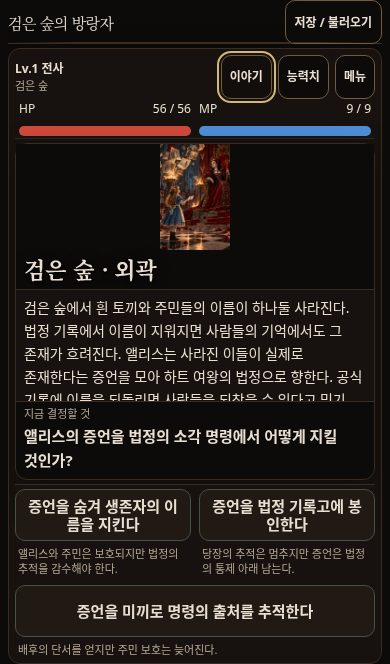
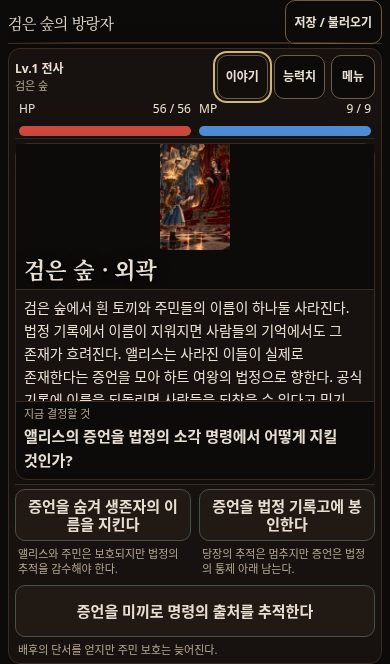
fix(ui): adapt long choices and exhaustive story QA to bounded reading

Changed region(s): [[0.5231, 0.0602, 0.9231, 0.1506]]

diff --git a/black-forest.html b/black-forest.html
@@ -1437,6 +1437,7 @@
  #black-forest-game[data-viewport=scene] .scene-hero-body{flex-basis:64px;min-height:32px}
  #black-forest-game[data-viewport=scene] .scene-hero-question{font-size:11px}
 }
+@media(max-width:700px){#black-forest-game[data-viewport=scene] .actions.choices-single:has([data-cmd=chapterChoice]){grid-template-columns:1fr}}
 
 </style>
 <div id="black-forest-game">
@@ -3457,7 +3458,8 @@ function sceneHero(s,kicker,title){
  return `<section class="scene-hero scene-${s.scene}${compact?' scene-compact':''}${visual.includes('assets/story_')?' scene-story-art':''}"><div class="scene-visual">${visual}<div class="scene-hero-shade" aria-hidden="true"></div><header class="scene-hero-head"><p class="eyebrow">${esc(kicker)}</p><h2>${esc(title)}</h2></header></div><div class="scene-hero-body" aria-live="polite">${heroNarrative(s)}${decision?`<div class="scene-hero-question"><span>지금 결정할 것</span><strong>${esc(decision.question)}</strong><small>무엇을 지키고 무엇을 감수할지 선택한다.</small></div>`:''}</div></section>`;
 }
 // Layout-only sizing for embedded documents and mobile address-bar changes.
-function sizeViewport(){if(panel)return;const top=root.getBoundingClientRect().top,height=window.visualViewport?.height||window.innerHeight;root.style.setProperty('--bf-scene-height',Math.max(240,height-Math.max(0,top))+'px');}
+function fitChoices(){const actions=$('play').querySelector('.actions:has([data-cmd=chapterChoice])');if(!actions)return;actions.classList.remove('choices-single');if([...actions.querySelectorAll('.action-label')].some(e=>e.getBoundingClientRect().height>36))actions.classList.add('choices-single');}
+function sizeViewport(){if(panel)return;const top=root.getBoundingClientRect().top,height=window.visualViewport?.height||window.innerHeight;root.style.setProperty('--bf-scene-height',Math.max(240,height-Math.max(0,top))+'px');fitChoices();}
 window.addEventListener('resize',sizeViewport);window.visualViewport?.addEventListener('resize',sizeViewport);
 root.addEventListener('error',ev=>{if(ev.target.tagName==='IMG'){ev.target.hidden=true;const caption=ev.target.parentElement.querySelector('.art-fallback');if(caption)caption.hidden=false;}},true);
 window.addEventListener('pageshow',ev=>{if(!ev.persisted)return;try{const code=localStorage.getItem(KEY);if(code)game=Game.load(code);render();}catch(e){warning='남긴 모험 기록을 다시 확인해 주세요.';}});
@@ -3544,6 +3546,7 @@ function prepareViewport(s,active){
  if(body){body.tabIndex=0;body.setAttribute('role','region');body.setAttribute('aria-label','장면 이야기 · 스크롤하여 전체 읽기');
  const question=body.querySelector('.scene-hero-question');if(question)body.after(question);
  }
+ fitChoices();
 }
 const careerConditionLabel=label=>label.replace(/^이야기 (.+)$/,(_,flag)=>{const chapter=flag.match(/^chapter_(\d)_seen$/);if(chapter&&AREAS[Number(chapter[1])])return AREAS[Number(chapter[1])].name+' 방문';const npc=NPCS[flag.replace(/_seen$/,'')];return npc?npc.name+' 만남':'이야기 경험';});
 const careerConditions=rows=>`<ul class="career-conditions" aria-label="전직 조건">${rows.map(r=>`<li class="career-condition ${r.now>=r.need?'is-met':'is-unmet'}"><span class="condition-mark" aria-hidden="true">${r.now>=r.need?'✓':'○'}</span><span class="condition-label">${esc(careerConditionLabel(r.label))}</span><span class="condition-value">${r.now>=r.need?'완료':'미완료'} · ${r.now}/${r.need}</span></li>`).join('')}</ul>`;

diff --git a/index.html b/index.html
@@ -1437,6 +1437,7 @@
  #black-forest-game[data-viewport=scene] .scene-hero-body{flex-basis:64px;min-height:32px}
  #black-forest-game[data-viewport=scene] .scene-hero-question{font-size:11px}
 }
+@media(max-width:700px){#black-forest-game[data-viewport=scene] .actions.choices-single:has([data-cmd=chapterChoice]){grid-template-columns:1fr}}
 
 </style>
 <div id="black-forest-game">
@@ -3457,7 +3458,8 @@ function sceneHero(s,kicker,title){
  return `<section class="scene-hero scene-${s.scene}${compact?' scene-compact':''}${visual.includes('assets/story_')?' scene-story-art':''}"><div class="scene-visual">${visual}<div class="scene-hero-shade" aria-hidden="true"></div><header class="scene-hero-head"><p class="eyebrow">${esc(kicker)}</p><h2>${esc(title)}</h2></header></div><div class="scene-hero-body" aria-live="polite">${heroNarrative(s)}${decision?`<div class="scene-hero-question"><span>지금 결정할 것</span><strong>${esc(decision.question)}</strong><small>무엇을 지키고 무엇을 감수할지 선택한다.</small></div>`:''}</div></section>`;
 }
 // Layout-only sizing for embedded documents and mobile address-bar changes.
-function sizeViewport(){if(panel)return;const top=root.getBoundingClientRect().top,height=window.visualViewport?.height||window.innerHeight;root.style.setProperty('--bf-scene-height',Math.max(240,height-Math.max(0,top))+'px');}
+function fitChoices(){const actions=$('play').querySelector('.actions:has([data-cmd=chapterChoice])');if(!actions)return;actions.classList.remove('choices-single');if([...actions.querySelectorAll('.action-label')].some(e=>e.getBoundingClientRect().height>36))actions.classList.add('choices-single');}
+function sizeViewport(){if(panel)return;const top=root.getBoundingClientRect().top,height=window.visualViewport?.height||window.innerHeight;root.style.setProperty('--bf-scene-height',Math.max(240,height-Math.max(0,top))+'px');fitChoices();}
 window.addEventListener('resize',sizeViewport);window.visualViewport?.addEventListener('resize',sizeViewport);
 root.addEventListener('error',ev=>{if(ev.target.tagName==='IMG'){ev.target.hidden=true;const caption=ev.target.parentElement.querySelector('.art-fallback');if(caption)caption.hidden=false;}},true);
 window.addEventListener('pageshow',ev=>{if(!ev.persisted)return;try{const code=localStorage.getItem(KEY);if(code)game=Game.load(code);render();}catch(e){warning='남긴 모험 기록을 다시 확인해 주세요.';}});
@@ -3544,6 +3546,7 @@ function prepareViewport(s,active){
  if(body){body.tabIndex=0;body.setAttribute('role','region');body.setAttribute('aria-label','장면 이야기 · 스크롤하여 전체 읽기');
  const question=body.querySelector('.scene-hero-question');if(question)body.after(question);
  }
+ fitChoices();
 }
 const careerConditionLabel=label=>label.replace(/^이야기 (.+)$/,(_,flag)=>{const chapter=flag.match(/^chapter_(\d)_seen$/);if(chapter&&AREAS[Number(chapter[1])])return AREAS[Number(chapter[1])].name+' 방문';const npc=NPCS[flag.replace(/_seen$/,'')];return npc?npc.name+' 만남':'이야기 경험';});
 const careerConditions=rows=>`<ul class="career-conditions" aria-label="전직 조건">${rows.map(r=>`<li class="career-condition ${r.now>=r.need?'is-met':'is-unmet'}"><span class="condition-mark" aria-hidden="true">${r.now>=r.need?'✓':'○'}</span><span class="condition-label">${esc(careerConditionLabel(r.label))}</span><span class="condition-value">${r.now>=r.need?'완료':'미완료'} · ${r.now}/${r.need}</span></li>`).join('')}</ul>`;

diff --git a/ui.js b/ui.js
@@ -49,7 +49,8 @@ function sceneHero(s,kicker,title){
  return `<section class="scene-hero scene-${s.scene}${compact?' scene-compact':''}${visual.includes('assets/story_')?' scene-story-art':''}"><div class="scene-visual">${visual}<div class="scene-hero-shade" aria-hidden="true"></div><header class="scene-hero-head"><p class="eyebrow">${esc(kicker)}</p><h2>${esc(title)}</h2></header></div><div class="scene-hero-body" aria-live="polite">${heroNarrative(s)}${decision?`<div class="scene-hero-question"><span>지금 결정할 것</span><strong>${esc(decision.question)}</strong><small>무엇을 지키고 무엇을 감수할지 선택한다.</small></div>`:''}</div></section>`;
 }
 // Layout-only sizing for embedded documents and mobile address-bar changes.
-function sizeViewport(){if(panel)return;const top=root.getBoundingClientRect().top,height=window.visualViewport?.height||window.innerHeight;root.style.setProperty('--bf-scene-height',Math.max(240,height-Math.max(0,top))+'px');}
+function fitChoices(){const actions=$('play').querySelector('.actions:has([data-cmd=chapterChoice])');if(!actions)return;actions.classList.remove('choices-single');if([...actions.querySelectorAll('.action-label')].some(e=>e.getBoundingClientRect().height>36))actions.classList.add('choices-single');}
+function sizeViewport(){if(panel)return;const top=root.getBoundingClientRect().top,height=window.visualViewport?.height||window.innerHeight;root.style.setProperty('--bf-scene-height',Math.max(240,height-Math.max(0,top))+'px');fitChoices();}
 window.addEventListener('resize',sizeViewport);window.visualViewport?.addEventListener('resize',sizeViewport);
 root.addEventListener('error',ev=>{if(ev.target.tagName==='IMG'){ev.target.hidden=true;const caption=ev.target.parentElement.querySelector('.art-fallback');if(caption)caption.hidden=false;}},true);
 window.addEventListener('pageshow',ev=>{if(!ev.persisted)return;try{const code=localStorage.getItem(KEY);if(code)game=Game.load(code);render();}catch(e){warning='남긴 모험 기록을 다시 확인해 주세요.';}});
@@ -136,6 +137,7 @@ function prepareViewport(s,active){
  if(body){body.tabIndex=0;body.setAttribute('role','region');body.setAttribute('aria-label','장면 이야기 · 스크롤하여 전체 읽기');
  const question=body.querySelector('.scene-hero-question');if(question)body.after(question);
  }
+ fitChoices();
 }
 const careerConditionLabel=label=>label.replace(/^이야기 (.+)$/,(_,flag)=>{const chapter=flag.match(/^chapter_(\d)_seen$/);if(chapter&&AREAS[Number(chapter[1])])return AREAS[Number(chapter[1])].name+' 방문';const npc=NPCS[flag.replace(/_seen$/,'')];return npc?npc.name+' 만남':'이야기 경험';});
 const careerConditions=rows=>`<ul class="career-conditions" aria-label="전직 조건">${rows.map(r=>`<li class="career-condition ${r.now>=r.need?'is-met':'is-unmet'}"><span class="condition-mark" aria-hidden="true">${r.now>=r.need?'✓':'○'}</span><span class="condition-label">${esc(careerConditionLabel(r.label))}</span><span class="condition-value">${r.now>=r.need?'완료':'미완료'} · ${r.now}/${r.need}</span></li>`).join('')}</ul>`;

diff --git a/style.css b/style.css
@@ -1434,3 +1434,4 @@
  #black-forest-game[data-viewport=scene] .scene-hero-body{flex-basis:64px;min-height:32px}
  #black-forest-game[data-viewport=scene] .scene-hero-question{font-size:11px}
 }
+@media(max-width:700px){#black-forest-game[data-viewport=scene] .actions.choices-single:has([data-cmd=chapterChoice]){grid-template-columns:1fr}}
